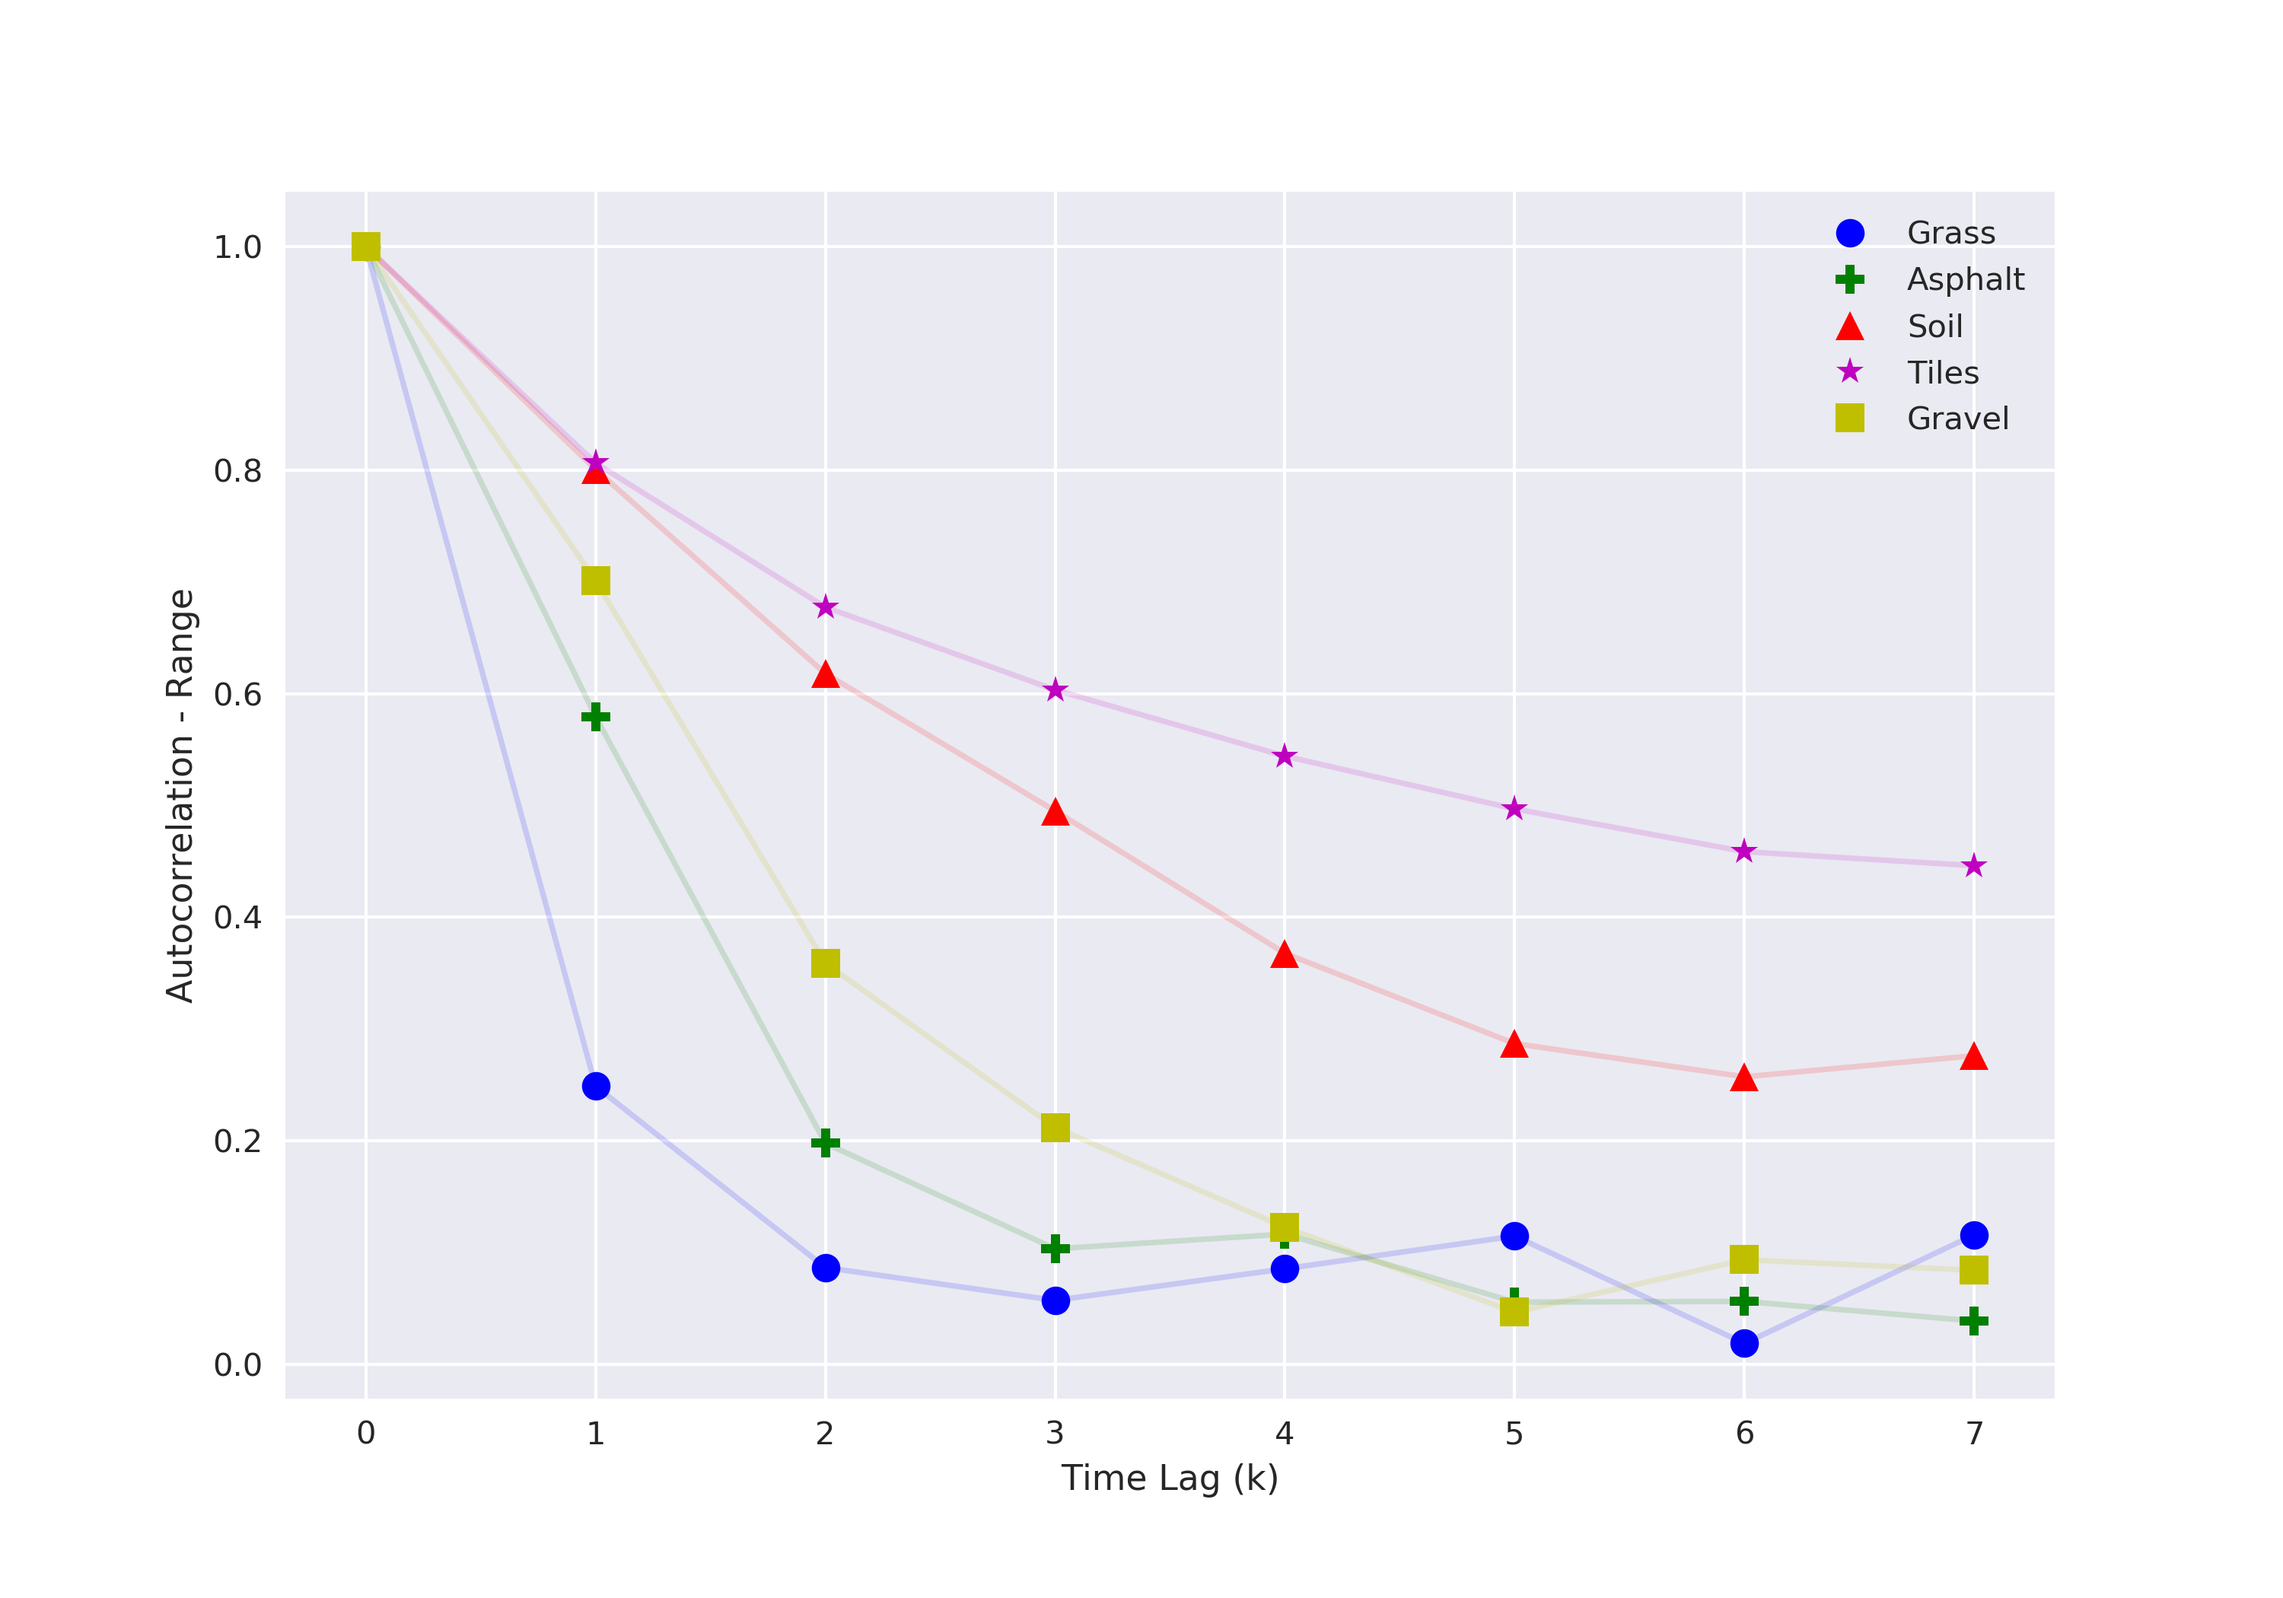
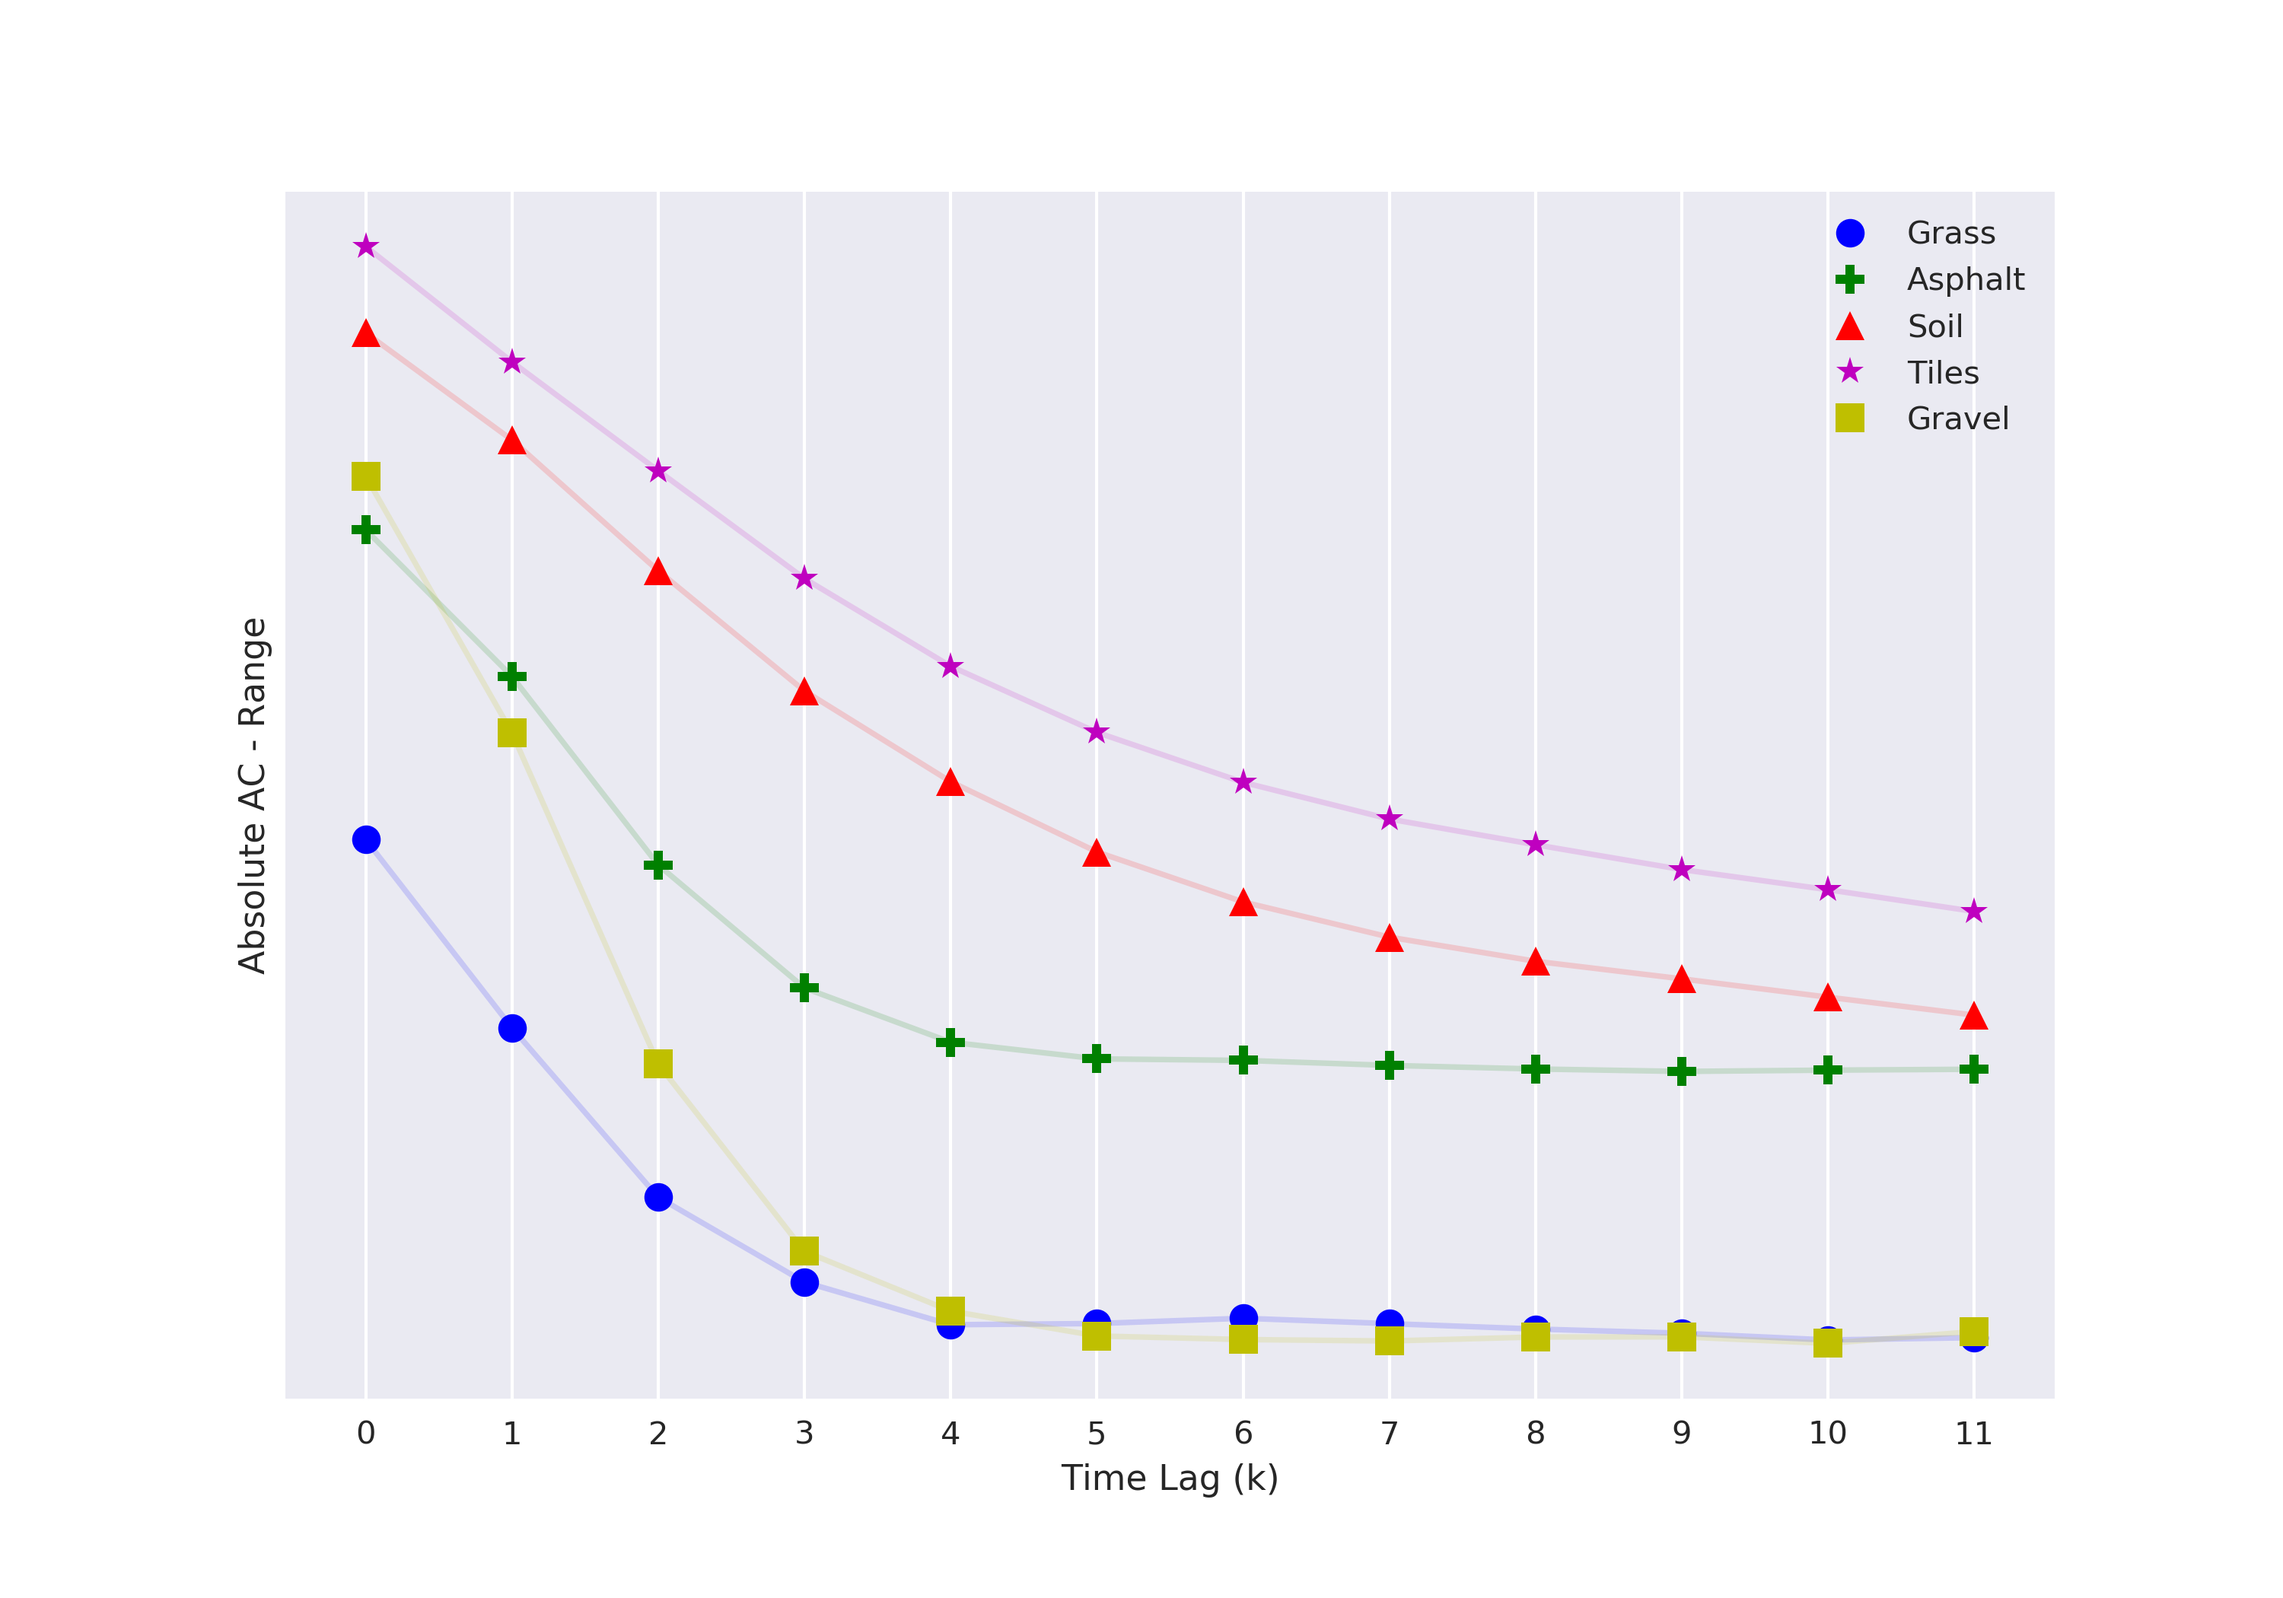
Updated autocov figure

diff --git a/feature_selection.tex b/feature_selection.tex
@@ -105,18 +105,15 @@ where $|\cdot|^*$ denotes elementwise absolute values, and $K$ is the number of 
 % Tie this into preceding section instead. Autocov allows for calculating the number of lags.
 %An obvious surface characteristic to ponder is roughness; while a tiled surface is typically very flat, grass is characterized by a random, unpredictable structure. It is reasonable to assume that there is more correlation between two closely spaced points on the tiled surface than there is on grass. This motivates us to study the autocovariance in slow time.
 
-A second method to investigate time-domain dependencies is through the autocovariance function. This method adds the benefit of allowing for a correlation length, which can significantly reduce the number of features.
+A second method to investigate time-domain dependencies is through the autocovariance function. This method adds the benefit of allowing for a specification of correlation length, which can significantly reduce the number of features. In figure \ref{fig:autocorr_range}, autocovariances are estimated from 5000 sweeps. 
 
 
-% Unclear figure!
-\iffalse
 \begin{figure}[h]
 	\centering
 	\includegraphics[scale=0.45]{figs_temp/features/autocorr_range.png}
-	\caption{The graphs show the absolute values of the autocorrelations computed from a time-varying \gls{iq}-signal recorded at a range of approximately 13 cm. The tiled surface, which is the most even, corresponds to the graph with the highest autocorrelation. In contrast, the arguably most uneven surface - grass - is represented by the graph with the lowest autocorrelation.}
+	\caption{The graphs show the absolute values of the autocovariances computed from a time-varying \gls{iq}-signal recorded at a range of approximately 14 cm. The tiled surface, which is the most even, corresponds to the graph with the highest autocovariances. In contrast, the arguably most uneven surface - grass - is represented by the graph with the lowest autocovariances.}
 	\label{fig:autocorr_range}
 \end{figure}
-\fi
 
 %We can regard the sequence $\{x(n,t)\}_{t=t_m}^{t_m+T-1}$ of measurements of range $n$ as samples from a stochastic process $X_{n,t}$ with the autocovariance function
 
@@ -145,7 +142,7 @@ A second method to investigate time-domain dependencies is through the autocovar
 %\end{equation}
 %where $\mu_n=\E_t\{X_{n,t}\}$. We can form the (biased) estimate of the autocovariance function through
 
-The biased estimate of the autocovariance function can be obtained through \citep{jakobsson_2015}
+For practical reasons, only $T$ sweeps are used for estimates in the model. The biased estimate of the autocovariance function can be obtained through \citep{jakobsson_2015}
 \begin{equation}
 	\hat{r}_n(k) = \frac{1}{T}\sum_{t=k}^{T-1}\big(x(n,t) - \hat{\mu}_n\big)\big(x(n,t-k) - \hat{\mu}_n\big)^*
 \end{equation}
